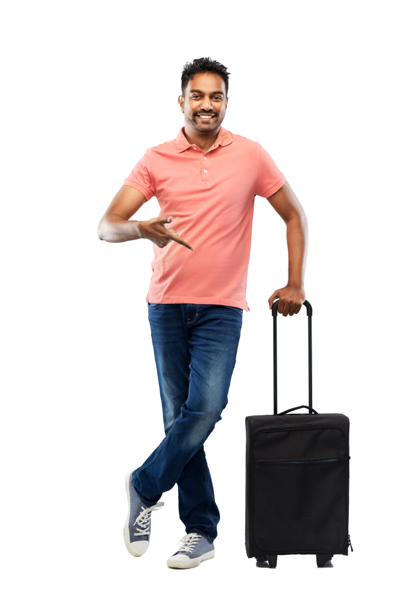
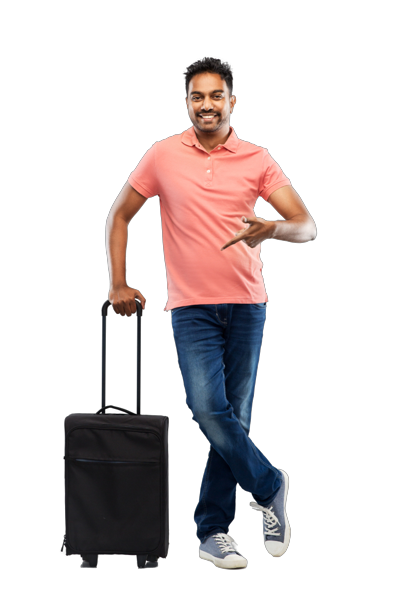
udpated

Changed region(s): [[0.1449, 0.0896, 0.8696, 0.9552]]

diff --git a/src/components/servicedApartments/ServicedApartments.js b/src/components/servicedApartments/ServicedApartments.js
@@ -17,6 +17,7 @@ import {
   VStack,
   Grid,
   GridItem,
+  Button,
 } from "@chakra-ui/react";
 import React from "react";
 import banner from "../serviced apartments imgs/MIVAN TECHNOLOGY TOWER.jpg";
@@ -57,6 +58,8 @@ import sports from "../serviced apartments imgs/multi sports arena.jpg";
 import pool from "../serviced apartments imgs/pool.JPG";
 import exercise from "../serviced apartments imgs/open exercise area.jpg";
 import cafe from "../serviced apartments imgs/cafe.jpg";
+
+import manStanding from "../serviced apartments imgs/1stock-removebg-preview.png";
 
 const ServicedApartments = () => {
   return (
@@ -570,7 +573,7 @@ const ServicedApartments = () => {
         </Flex>
       </Flex>
       {/* amenities sec */}
-      <Flex w="100%" h="100%" pt="3.125rem" direction="column">
+      <Flex w="100%" h="100%" pt="3.125rem" pb="0.938rem" direction="column">
         <Text
           w="100%"
           textAlign="center"
@@ -870,6 +873,94 @@ const ServicedApartments = () => {
               </GridItem>
             </Grid>
           </Flex>
+        </Flex>
+      </Flex>
+      {/*move in sec*/}
+      <Flex
+        w="100%"
+        h="95vh"
+        bgGradient="linear(to-b, #DFBD69, #B88746)"
+        py="3.125rem"
+        pos="relative"
+        direction="column"
+      >
+        <Flex w="100%" h="100%">
+          <Flex
+            w="55%"
+            h="100%"
+            align="flex-start"
+            justify="center"
+            direction="column"
+            pl="6.25rem"
+          >
+            <Heading
+              fontFamily="avenir"
+              color="black"
+              fontSize="2.125rem"
+              pb="0.938rem"
+            >
+              MOVE IN WITH JUST YOUR CLOTHES
+            </Heading>{" "}
+            <Heading
+              fontFamily="avenir"
+              color="white"
+              fontSize="2.125rem"
+              pb="2.5rem"
+            >
+              WE GOT THE REST COVERED
+            </Heading>
+            <Text fontFamily="veralaRound" fontSize="1.25rem" pb="1.563rem">
+              You can choose from an array of apartments with services and
+              customize according to your needs.
+            </Text>
+            <Button
+              bgColor="#000"
+              color="#fff"
+              _hover={{ bgColor: "#000", color: "#fff" }}
+            >
+              SCHEDULE A VISIT
+            </Button>
+          </Flex>
+          <Flex w="45%" h="100%" pos="relative" align="center" justify="center">
+            <Flex
+              w="100%"
+              h="100%"
+              pos="absolute"
+              bgGradient="linear(to-b, #b88746, #B88746)"
+              clipPath="polygon(10% 10%, 100% 40%, 35% 100%)"
+            />
+            <Image pos="absolute" h="100%" src={manStanding} />
+            <Flex
+              w="100%"
+              h="100%"
+              pos="absolute"
+              bgGradient="linear(to-b, #CBA257,#BD8E4B)"
+              clipPath="polygon(68% 70%, 100% 100%, 35% 100%)"
+            />
+          </Flex>
+        </Flex>
+        <Flex
+          w="100%"
+          direction="column"
+          align="center"
+          pos="absolute"
+          bottom="3.125rem"
+        >
+          {" "}
+          <Text fontFamily="goudy" fontSize="2.125rem" pb="0.625rem">
+            LIFE JUST GOT BETTER
+          </Text>
+          <HStack color="white" gap="0.938rem" lineHeight="1.188rem">
+            <Heading fontFamily="avenir" fontSize="1rem">
+              BETTER APARTMENTS
+            </Heading>
+            <Heading fontFamily="avenir" fontSize="1rem">
+              BETTER SERVICES
+            </Heading>
+            <Heading fontFamily="avenir" fontSize="1rem">
+              BETTER AMENITIES
+            </Heading>
+          </HStack>
         </Flex>
       </Flex>
     </>
